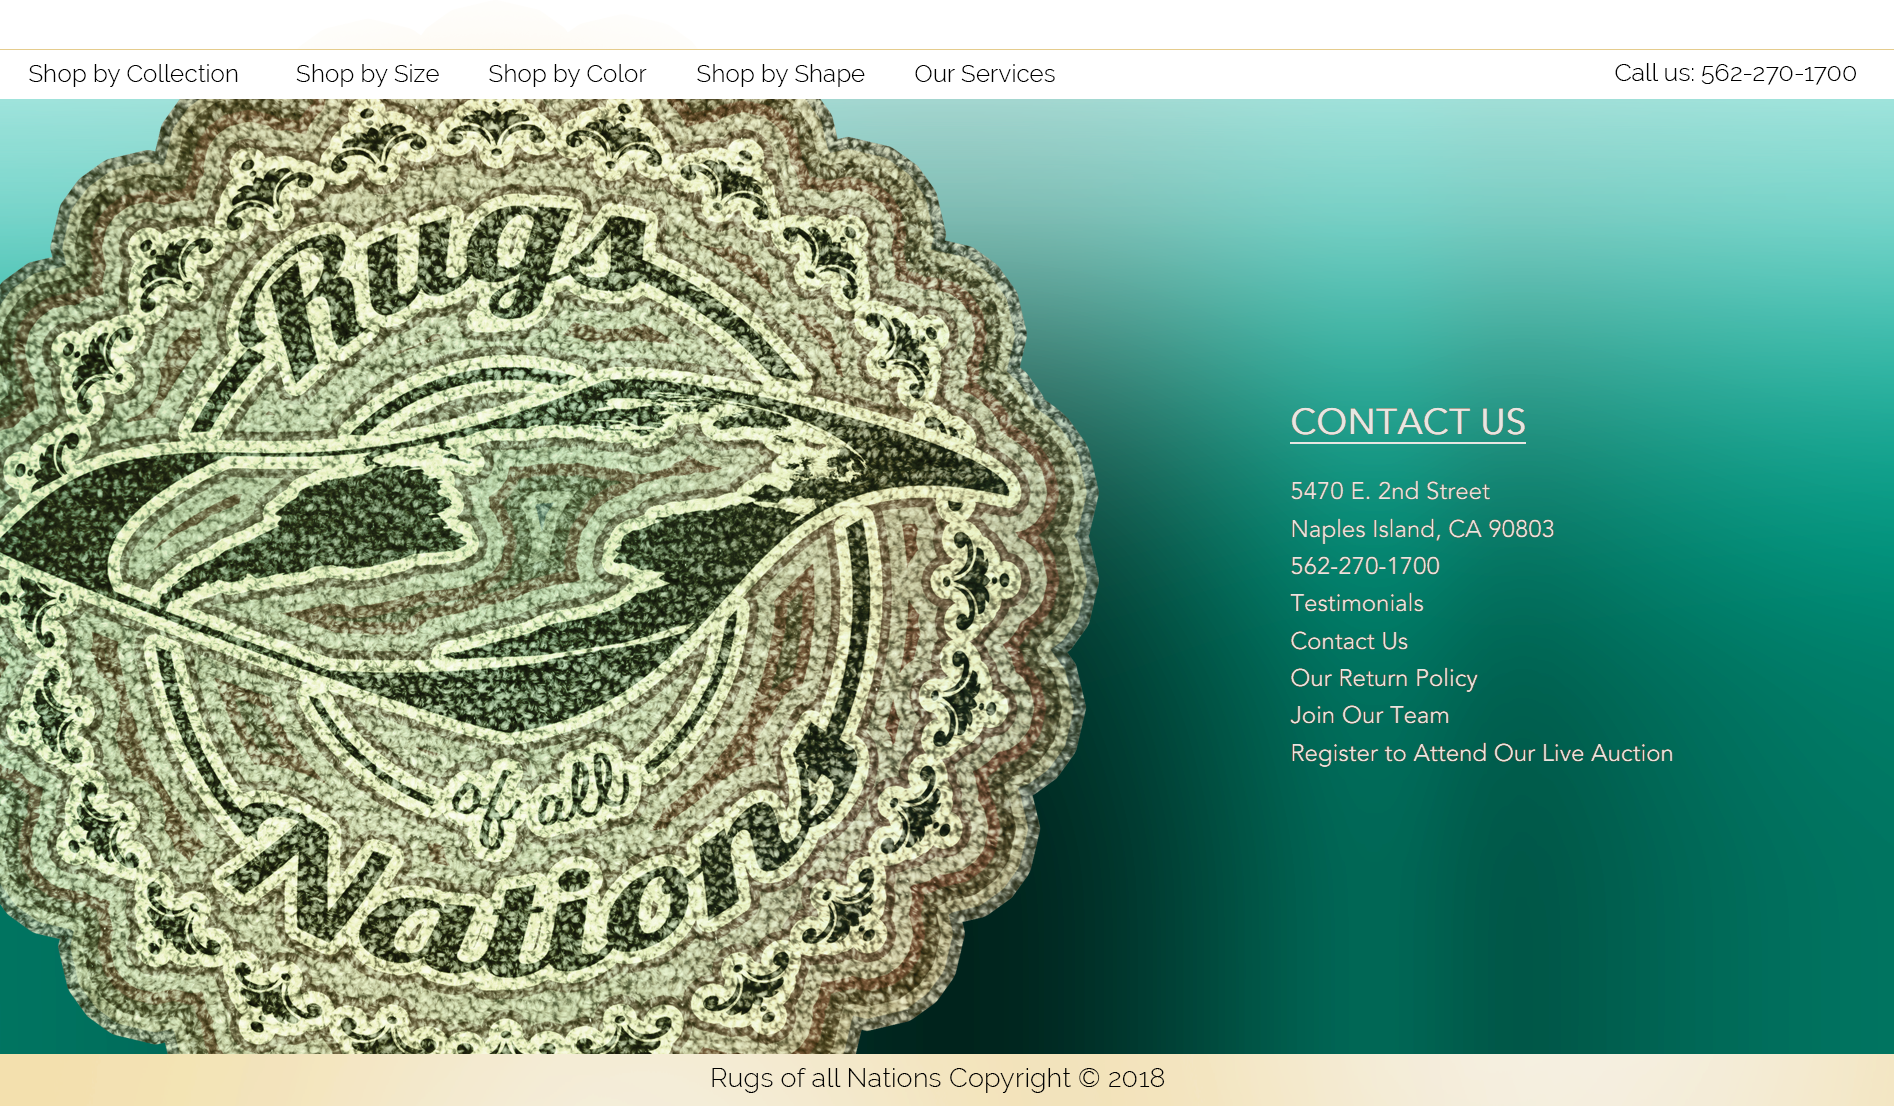
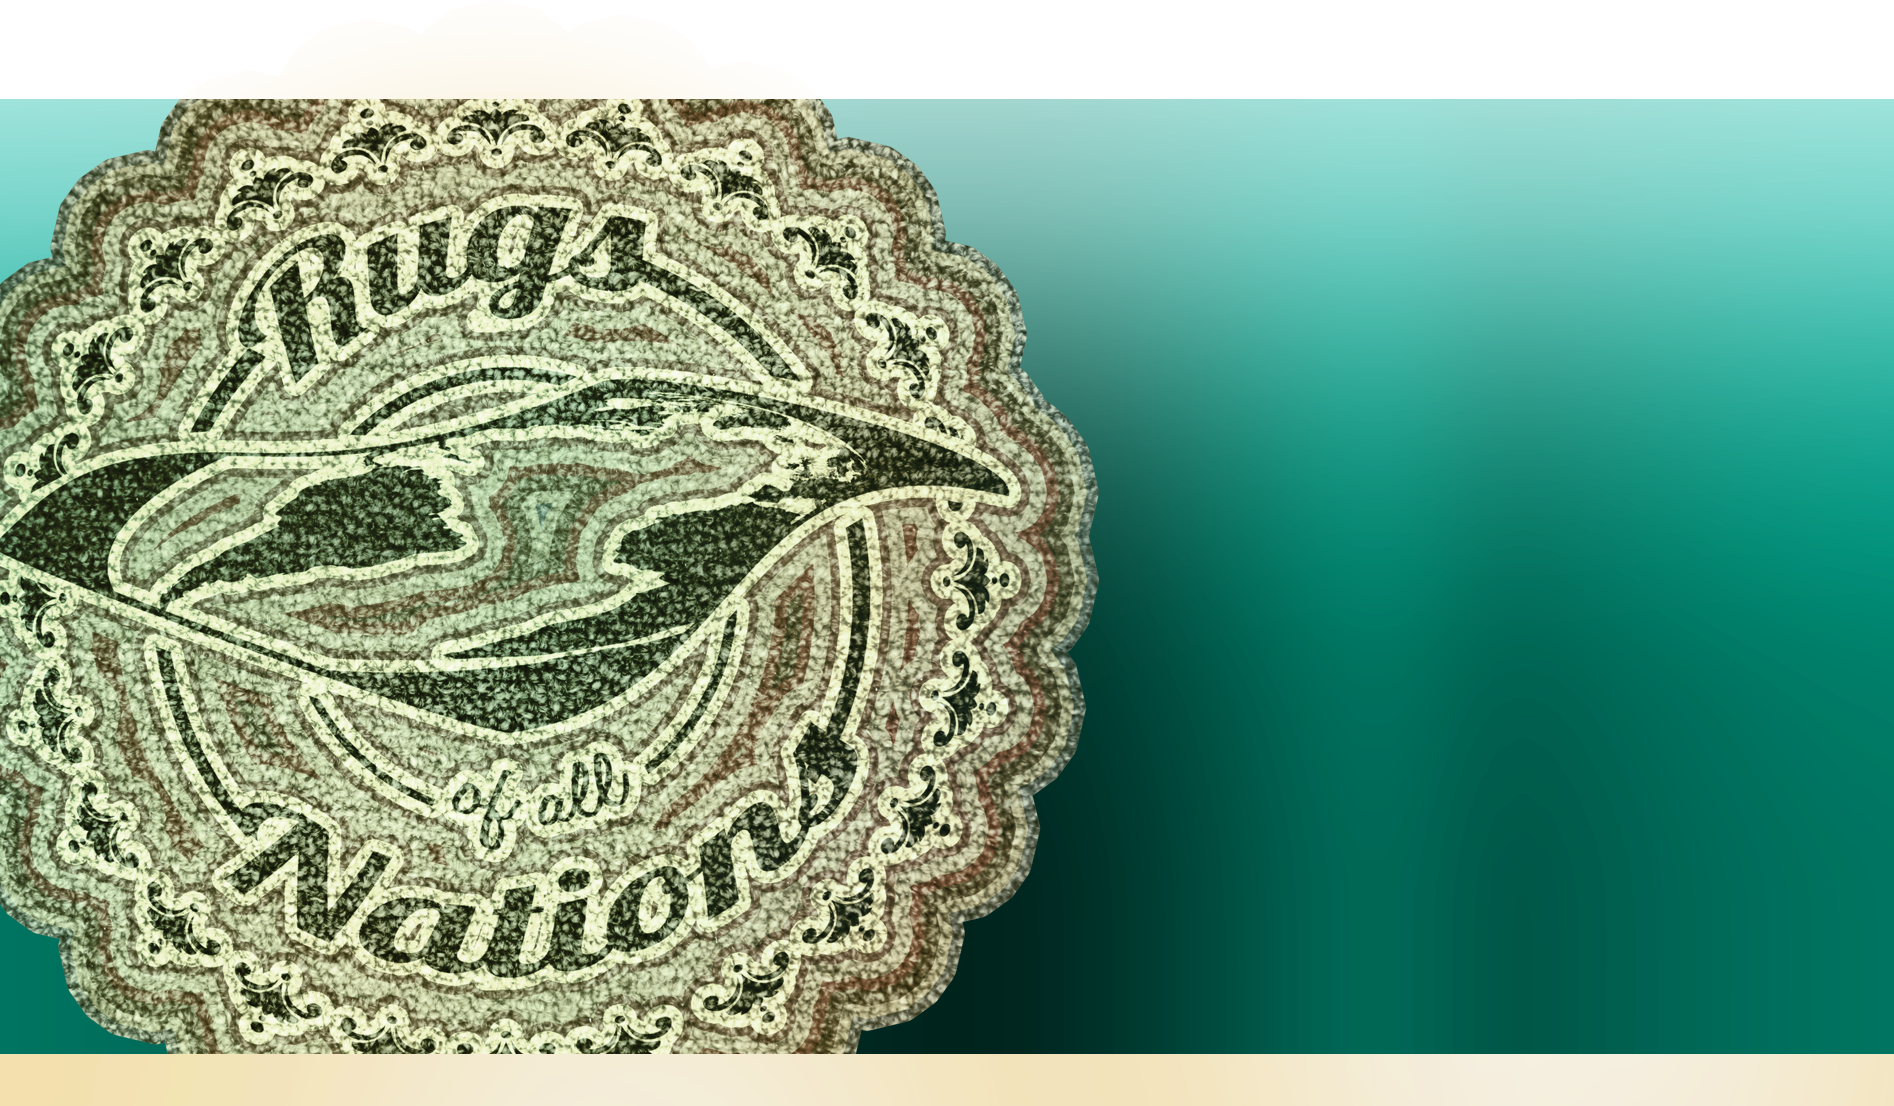
Updated footer.

diff --git a/css/style.css b/css/style.css
@@ -148,9 +148,23 @@ nav ul a {
 
 /* Footer */
 
+/* footer {
+  background-color: black !important;
+  background-image: url("../img/banner.png");
+  background-size: cover;
+  background-repeat: no-repeat;
+} */
+
+.footer {
+  background-color: black !important;
+  background-image: url("../img/banner.png");
+  background-size: cover;
+  background-repeat: no-repeat;
+}
+
   /* Contact Us Section */
 
-  .contact_us {
+  /* .contact_us {
     background-image: url("../img/Layer 39 copy 2.png");
     position: absolute;
     left: 0px;
@@ -158,7 +172,7 @@ nav ul a {
     width: 1894px;
     height: 956px;
     z-index: 3;
-  }  
+  }   */
 
 /* Gallery */
 

diff --git a/framework.html b/framework.html
@@ -131,7 +131,12 @@
   </header>
   <main>
   </main>
-  <footer>
+  <footer class="footer">
+    
+    <div class="background">
+    
+    </div>
+
   </footer>
 </body>
 
